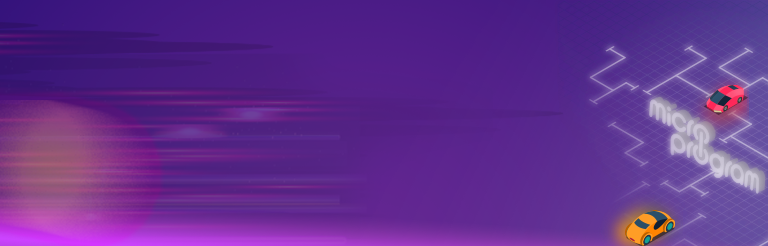
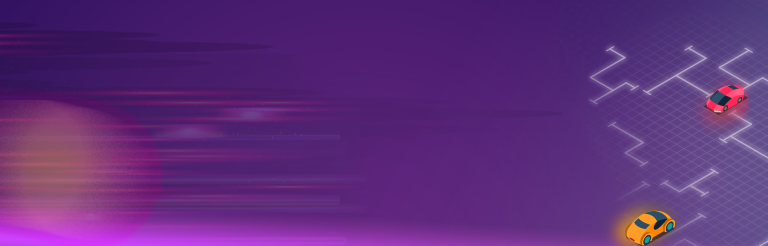
改header底圖＋快閃logo

diff --git a/css/style.css b/css/style.css
@@ -122,9 +122,8 @@ main h2{padding: 0 0 2rem; font-size: 2.5rem}
 footer{position: absolute; width: 100%; min-height: var(--footer-h); bottom: 0;display: flex; justify-content: center; align-items: center}
 footer.inner #pay-list-container{display: none}
 footer .footer-pic{position: absolute;z-index: 2;width: 100%; height: var(--footer-h)}
-footer .footer-pic:before{content: ''; position: absolute; background: url("../images/mplogo-bg.svg") no-repeat center center; background-size: 100%; width: 115px; height: 98px; right: 5px; top: 41%; z-index: 2;filter: drop-shadow(0 0 4px #fff) blur(0.6px);}
-footer .footer-pic:after{content: ''; position: absolute; z-index: 1; background: url("../images/mplogo-bg2.svg") no-repeat center center; background-size: 100%; width: 117px; height: 100px; animation: glow-breathing 2s ease-in-out infinite;pointer-events: none; right: 5px; top: 41%}
-.footer-mask{-webkit-mask-image: url("../images/footer-bgmask.png");mask-image: url("../images/footer-bgmask.png"); mask-repeat: no-repeat;  mask-size: cover}
+footer .footer-pic:before{content: ''; position: absolute; background: url("../images/mplogo-bg.svg") no-repeat center center; background-size: 100%; width: 115px; height: 98px; right: 5px; top: 41%; z-index: 2;filter: drop-shadow(1px 0 1px #cdcdcd) drop-shadow(0 1px 2px #ffffff) drop-shadow(0 0 px #ffffffb0) blur(0.2px);}
+footer .footer-pic:after{content: ''; position: absolute; z-index: 1; background: url("../images/mplogo-bg2.svg") no-repeat center center; background-size: 100%; width: 117px; height: 100px; animation: glow-breathing 1s ease-in-out infinite;pointer-events: none; right: 5px; top: 41%}.footer-mask{-webkit-mask-image: url("../images/footer-bgmask.png");mask-image: url("../images/footer-bgmask.png"); mask-repeat: no-repeat;  mask-size: cover}
 footer #pay-list-container{position:absolute; bottom: 23px; display: flex; justify-content: center; align-items: center; width: 75%; min-height: 120px; border-radius: 5rem; background: #ffffff38;backdrop-filter: blur(5px); z-index: 10; box-shadow: 0 0 7px #5d5d5dad, inset 2px 1px 5px #ffffff30}
 footer #pat-list-inner{display: flex; flex-wrap: wrap; justify-content: center;padding:0 1rem}
 footer #pat-list-inner p{display: flex; justify-content: center; align-items: center; width: 50px; height: 50px}
